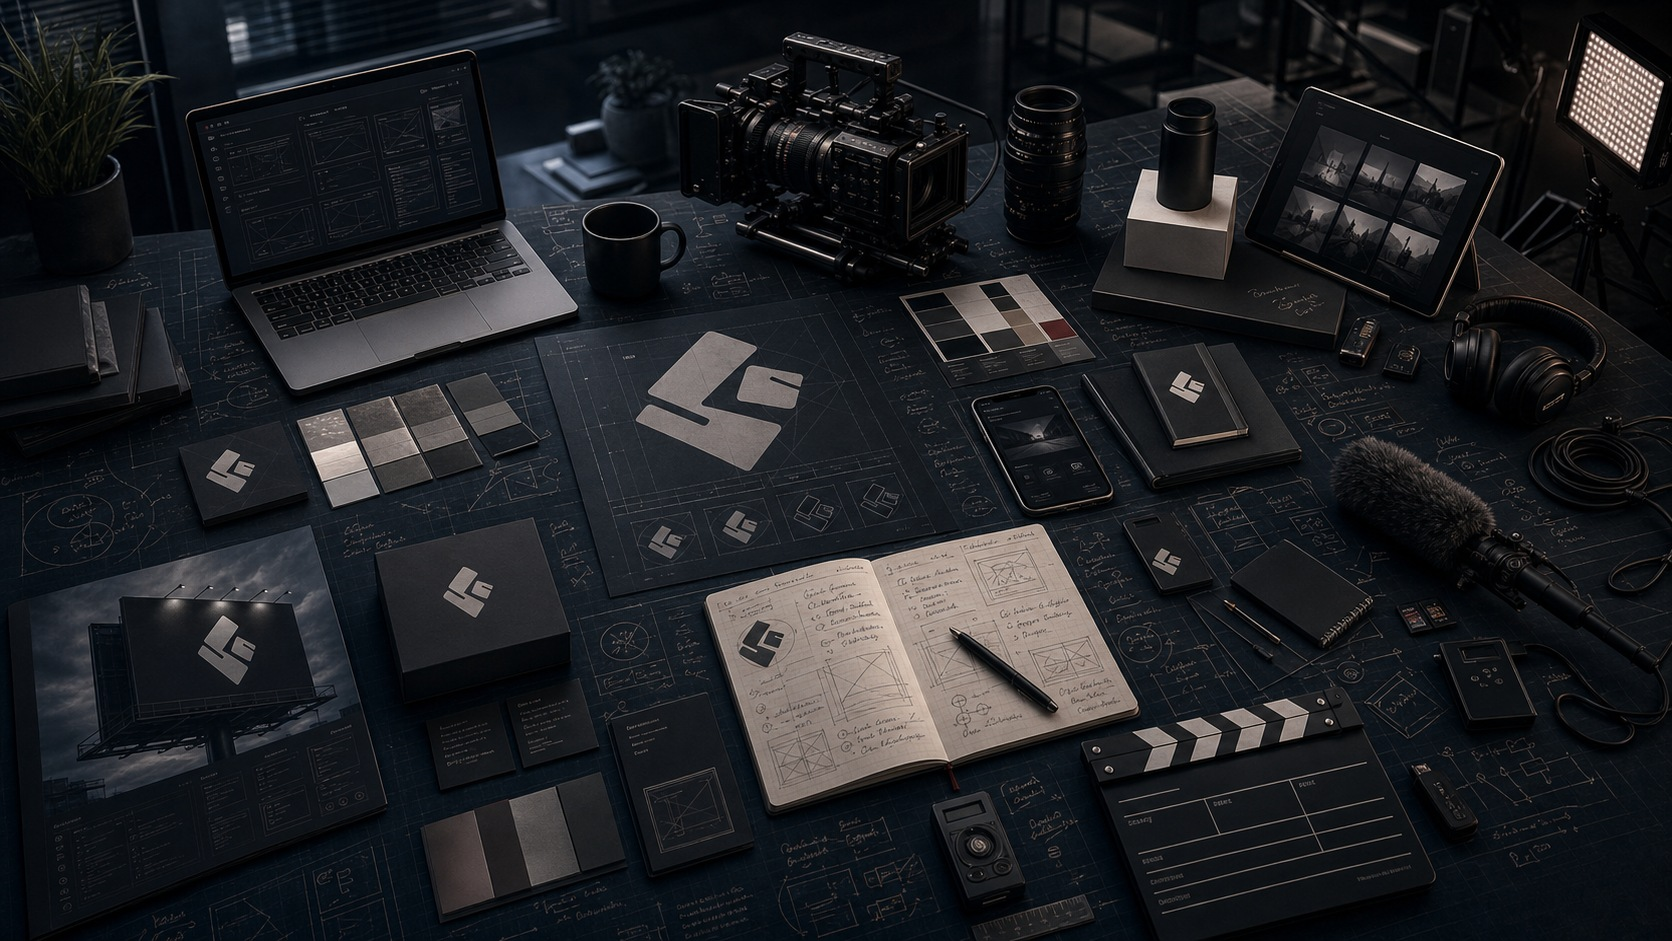
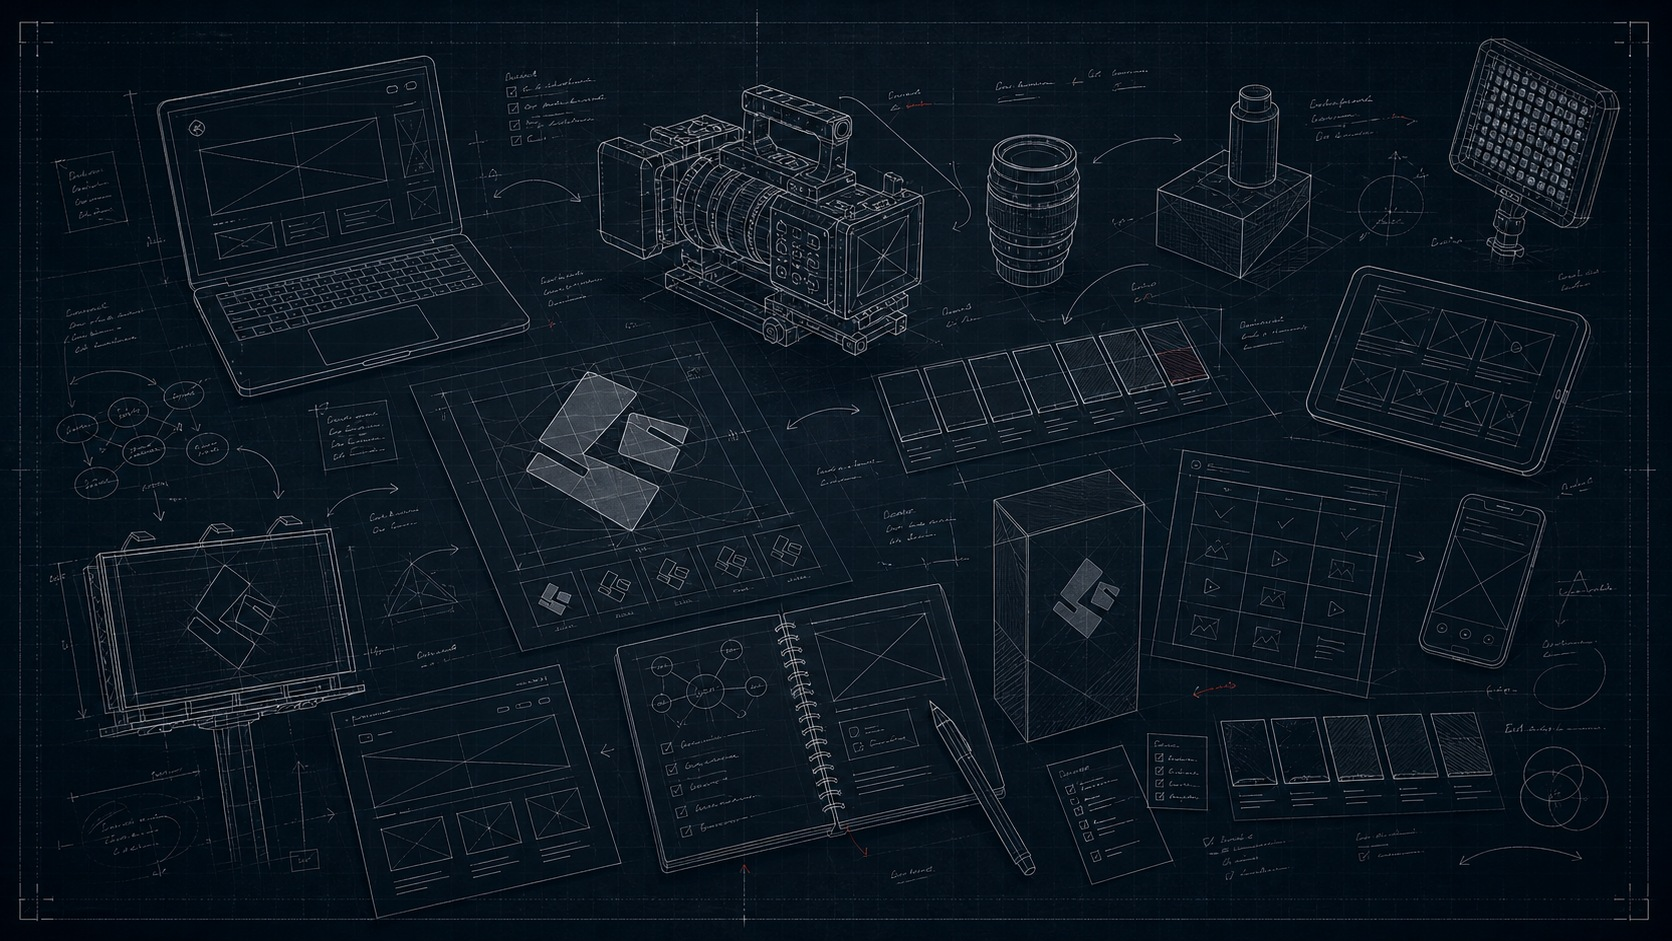
landing image update

diff --git a/src/index.css b/src/index.css
@@ -3487,9 +3487,9 @@ body {
 .about-sel {
   position: absolute;
   left: 50%;
-  top: 32%;
-  width: 36%;
-  height: 42%;
+  top: 36%;
+  width: 28%;
+  height: 32%;
   pointer-events: none;
   border: none;
 }
@@ -3582,7 +3582,7 @@ body {
   display: block;
   font-family: 'Barlow Condensed', sans-serif;
   font-weight: 900;
-  font-size: clamp(42px, 6.5vw, 96px);
+  font-size: clamp(32px, 4.5vw, 68px);
   line-height: 0.93;
   letter-spacing: 0.01em;
   text-transform: uppercase;
@@ -7082,7 +7082,7 @@ body {
 .cta-line {
   font-family: var(--font-heading);
   font-weight: 800;
-  font-size: clamp(52px, 8vw, 120px);
+  font-size: clamp(42px, 6vw, 90px);
   letter-spacing: -4px;
   line-height: 0.95;
   color: var(--cream);
@@ -7107,7 +7107,7 @@ body {
   flex-direction: column;
   align-items: center;
   gap: 16px;
-  margin-top: 48px;
+  margin-top: 80px;
 }
 
 .cta-btn {
@@ -7117,14 +7117,14 @@ body {
   gap: 4px;
   font-family: var(--font-heading);
   font-weight: 700;
-  font-size: 12px;
+  font-size: 10px;
   letter-spacing: 2px;
   text-transform: uppercase;
-  padding: 14px 36px 11px;
-  border-radius: 999px;
-  border: 1.5px solid rgba(255, 255, 255, 0.55);
+  padding: 11px 28px 9px;
+  border-radius: 14px;
+  border: 1.5px solid #F2F0EB;
   background: transparent;
-  color: rgba(242, 240, 235, 0.95);
+  color: #F2F0EB;
   cursor: pointer;
   position: relative;
   overflow: hidden;
@@ -7141,11 +7141,23 @@ body {
   width: 0;
   height: 0;
   border-radius: 50%;
-  background: #1a1614;
+  background: #ede8e1;
   transform: translate(-50%, -50%);
   transition: width 0.55s cubic-bezier(0.4, 0, 0.2, 1),
               height 0.55s cubic-bezier(0.4, 0, 0.2, 1);
   z-index: -1;
+}
+
+.cta-btn:hover {
+  color: #1a1614;
+  border-color: #ede8e1;
+  box-shadow: 0 4px 20px rgba(242, 240, 235, 0.12);
+  transform: translateY(-1px);
+}
+
+.cta-btn:hover::after {
+  width: 400%;
+  height: 400%;
 }
 
 
@@ -7154,10 +7166,10 @@ body {
 }
 
 .cta-btn__main {
-  font-family: var(--font-heading);
+  font-family: 'Syne', sans-serif;
   font-weight: 700;
-  font-size: 22px;
-  letter-spacing: 2px;
+  font-size: 16px;
+  letter-spacing: 1.5px;
   text-transform: uppercase;
 }
 
@@ -7257,7 +7269,7 @@ body {
 .cta-action__row {
   display: flex;
   flex-direction: row;
-  align-items: flex-start;
+  align-items: center;
   gap: 48px;
   width: 100%;
   max-width: 860px;
@@ -7344,10 +7356,10 @@ body {
   border: 1px solid rgba(255, 255, 255, 0.3);
   border-radius: 4px;
   color: #fff;
-  font-family: var(--font-heading);
-  font-size: 11px;
+  font-family: 'Syne', sans-serif;
+  font-size: 12px;
   font-weight: 700;
-  letter-spacing: 0.08em;
+  letter-spacing: 1.5px;
   text-transform: uppercase;
   padding: 11px 14px;
   cursor: pointer;

diff --git a/src/components/CTA.jsx b/src/components/CTA.jsx
@@ -237,23 +237,6 @@ export default function CTA() {
 
         </div>
 
-        {/* Desktop trust strip */}
-        <div className="cta-desktop-trust">
-          <div className="cta-desktop-trust__stat">
-            <span className="cta-desktop-trust__num">48h</span>
-            <span className="cta-desktop-trust__label">average response time</span>
-          </div>
-          <span className="cta-desktop-trust__sep" aria-hidden="true" />
-          <div className="cta-desktop-trust__stat">
-            <span className="cta-desktop-trust__num">100%</span>
-            <span className="cta-desktop-trust__label">Canada-wide &amp; remote</span>
-          </div>
-          <span className="cta-desktop-trust__sep" aria-hidden="true" />
-          <div className="cta-desktop-trust__stat">
-            <span className="cta-desktop-trust__num">No contracts</span>
-            <span className="cta-desktop-trust__label">start &amp; stop anytime</span>
-          </div>
-        </div>
 
       </div>
 